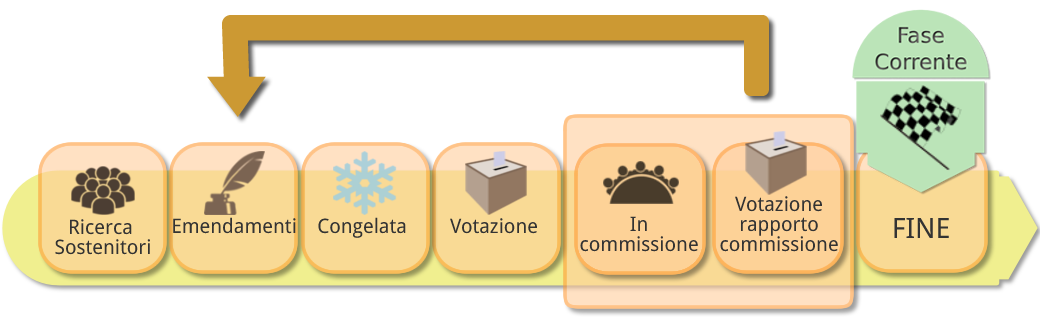
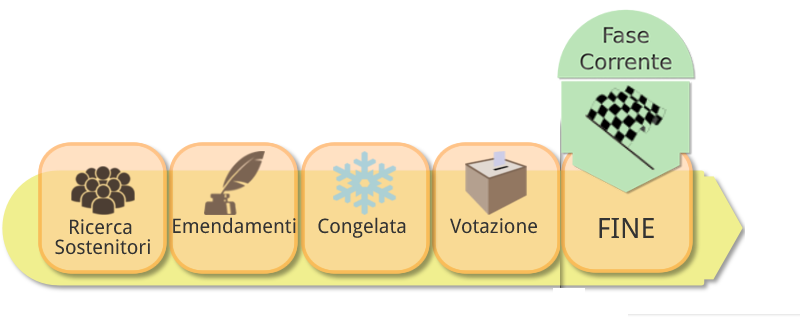
Progress bar updated Initiative/Show visualization fixed Member/Report false identity fixed Wizard fixed

diff --git a/app/main/_layout/custom.html b/app/main/_layout/custom.html
@@ -77,10 +77,6 @@
     <!-- WEBMCP SLOT default -->
     </section>
 </div>
-<div class="row text-center"><a href="http://www.parelon.it"
-                                      style="border: none !important;"><img alt="Donazione per Parelon"
-                                                                            src="__BASEURL__/static/donate.png"/></a>
-</div>
 <div class="push"></div>
 
 <!-- /.wrapper -->

diff --git a/fastpath/getpic.c b/fastpath/getpic.c
@@ -8,11 +8,11 @@
 #include <unistd.h>
 
 #ifndef GETPIC_CONNINFO
-#define GETPIC_CONNINFO "dbname=parelon_cert"
+#define GETPIC_CONNINFO "dbname=peoschool"
 #endif
 
 #ifndef GETPIC_DEFAULT_AVATAR
-#define GETPIC_DEFAULT_AVATAR "/opt/liquid_feedback_frontend/app/static/avatar.jpg"
+#define GETPIC_DEFAULT_AVATAR "/opt/PEOSchool/static/avatar.jpg"
 #endif
 
 int main(int argc, const char * const *argv) {
